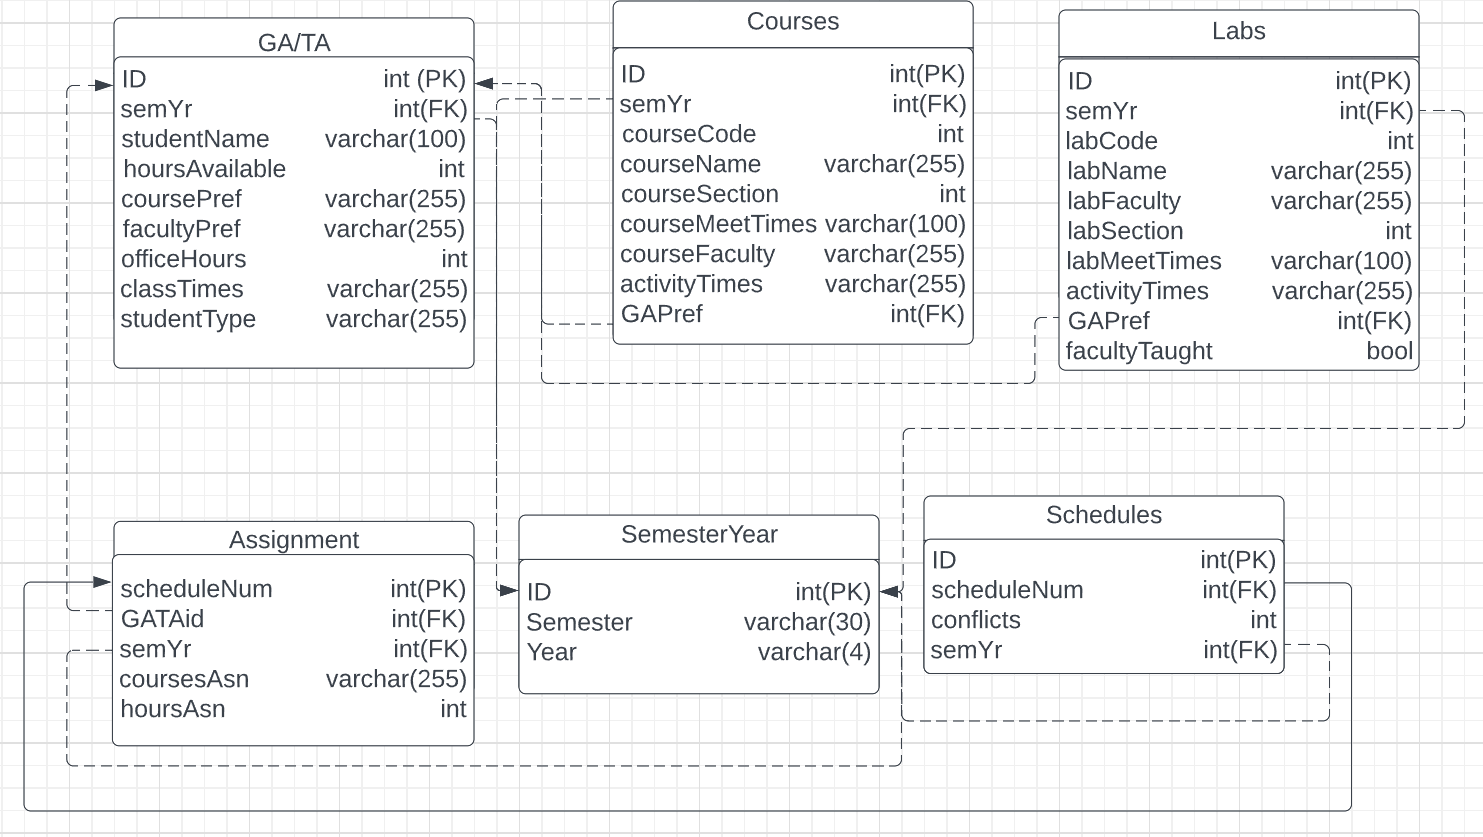
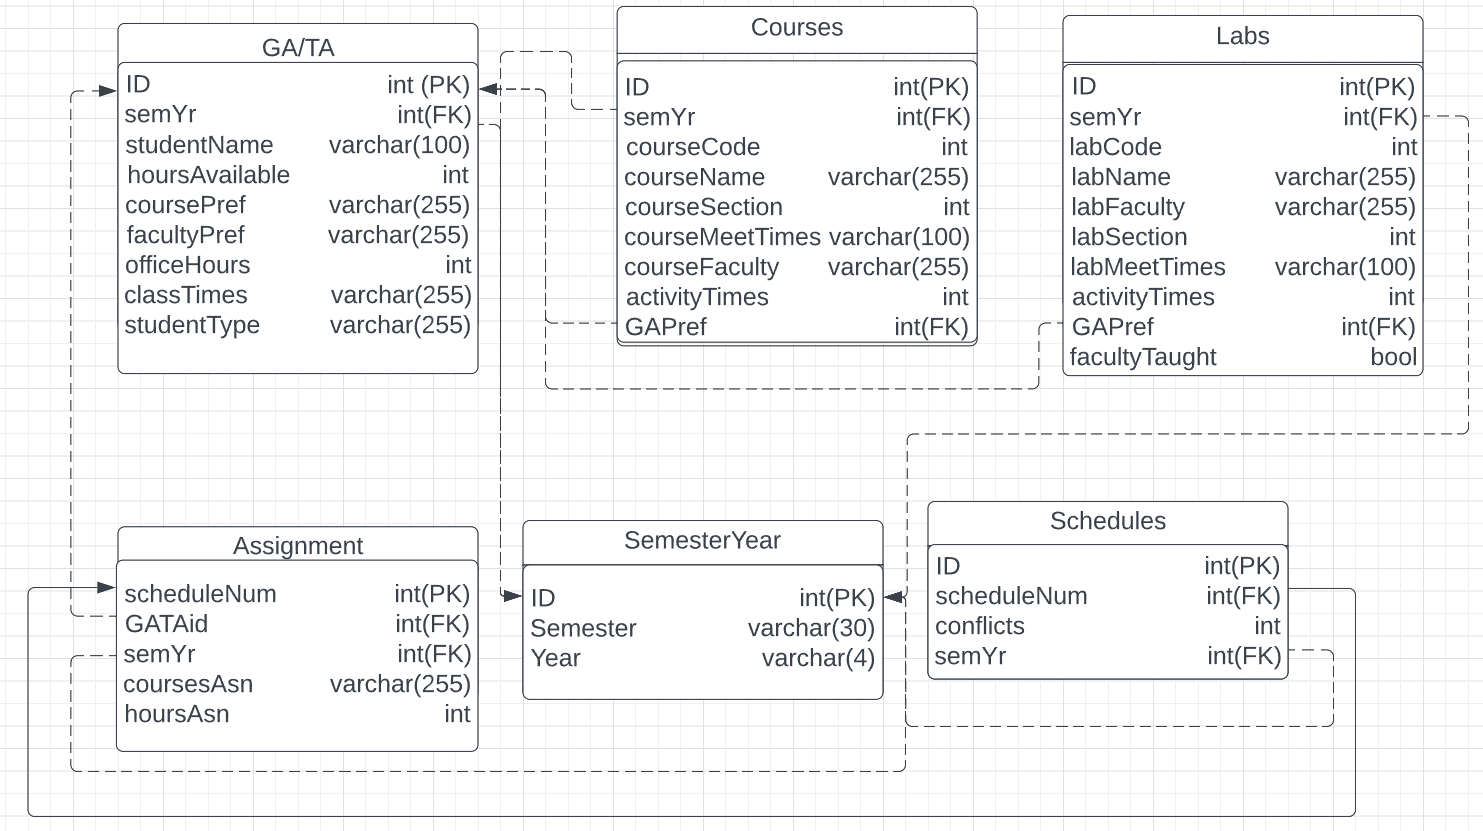
New Database Schema, added notes for Genetic Algorithm tasks, fixed double import in Student.js. Also Deleted .env file. This file should not be pushed to github, make sure to recreate for local environment testing.

diff --git a/client/src/pages/Student.js b/client/src/pages/Student.js
@@ -1,6 +1,5 @@
 import React, { Component } from 'react';
 import {getAllSemester} from "../services/semesterService";
-import { addStudent } from "../services/studentService";
 import Dropdown from 'react-dropdown';
 import 'react-dropdown/style.css';
 import {addStudent, getAllStudent} from "../services/studentService";
@@ -152,7 +151,6 @@ class Student extends Component {
                       type={"number"}
                       className="form-control"
                       placeholder="E.g 10"
-                      name={"hoursAvail"}
                       value={this.state.student.hoursAvail}
                       onChange={this.changeHandler}
                   />
@@ -165,7 +163,6 @@ class Student extends Component {
                       type={"text"}
                       className="form-control"
                       placeholder=""
-                      name={"coursePref"}
                       value={this.state.student.coursePref}
                       onChange={this.changeHandler}
                   />
@@ -178,7 +175,6 @@ class Student extends Component {
                       type={"text"}
                       className="form-control"
                       placeholder=""
-                      name={"facultyPref"}
                       value={this.state.student.facultyPref}
                       onChange={this.changeHandler}
                   />

diff --git a/GeneticAlgorithm.py b/GeneticAlgorithm.py
@@ -149,7 +149,7 @@ class Schedule:
         if self._isFitnessChanged == True:
             # Recalculate fitness for each schedule
             self._fitness = self.calculate_fitness()
-            print("Number of conflicts for current schedule:",self._fitness)
+            # print("Number of conflicts for current schedule:",self._fitness)
             self._isFitnessChanged = False
         return self._fitness
 
@@ -216,8 +216,18 @@ class Schedule:
 
         # Iterate through all courses
         for cur_lab in labs:
-            # TODO: If this lab requires a TA, run the algorithm in the list of TA to assign a teaching TA
-            #  then assign an assisting GA in the entire GATA list
+            # TODO: If applicable, assign TA to Faculty taught lab and TA taught lab so TA knows how to teach the lab.
+            # TODO: Always assign GA to Lab to assist TA.
+            # TODO: Make sure GA is not being assigned to 2 labs simultaneously. We need to take into account Meeting Times when making assignments.
+            # TODO: Think about case where Faculty wants GA present for the course meeting time. Professor will make a lab for this class and GA assigned to that class will need to be assigned to that specific lab.
+            # TODO: For TA assignment, assign additional hours for Preparation.
+            # TODO: Think about scenario where we have multiple classes to assign but not enough hours on a single GA/TA. Possibly split up activities into 2 parts to assign 2 GAs. This will help the Professor greatly.
+            # TODO: If assigning GA to more than 3 courses, should penalize.
+            # TODO: If course or lab has 8 hours, we prefer to have a single GA for course or GA and TA for lab, if not enough hours remaining Can split between 2 GAs but assignment should be penalized, 3 way split should be heavily penalized.
+            # TODO: [Not Necessary, Would be nice] Possibly think about an hour break for lunch in middle of day.
+            # If (!facultyTaught):
+            #   Assign a TA.
+            # 
 
             # Assign a random gata
             random_gata = gatas[rnd.randrange(0, len(gatas))]
@@ -282,7 +292,7 @@ class Schedule:
 
             # TODO: Calculate the rewards score for each assignments for rank of final results.
 
-        return self._numbOfConflicts
+        return 1 / ((1.0*self._numbOfConflicts + 1))
 
 
 class Population:
@@ -485,13 +495,9 @@ class CourseAssignment:
 # TODO: Tobi
 class Data:
     Courses = [["Fall 2022", "CSC 799", "Thesis", "001", "M 11:00 - 12:00", "DR RAZIB IQBAL", 4, "Caleb B.", ],
-               ["Fall 2022", "CSC 790", "Graduate Topics in Computer Science", "001", "TW 11:00 - 12:00",
-                "DR AJAY KATANGUR", 2, ''],
-               ["Fall 2022", "CSC 765", "Ubiquitous Computing and Internet of Things", "001", "F 1:00 - 2:30",
-                "DR MUKULIKA GHOSH", 3, ''],
-               ["Fall 2022", "CSC 755", "Software Testing and Quality Assurance", "001", "M 1:00 - 3:00",
-                "DR LLOYD SMITH", 4,
-                "Calvin A"],
+               ["Fall 2022", "CSC 790", "Graduate Topics in Computer Science", "001", "TW 11:00 - 12:00","DR AJAY KATANGUR", 2, ''],
+               ["Fall 2022", "CSC 765", "Ubiquitous Computing and Internet of Things", "001", "F 1:00 - 2:30","DR MUKULIKA GHOSH", 3, ''],
+               ["Fall 2022", "CSC 755", "Software Testing and Quality Assurance", "001", "M 1:00 - 3:00","DR LLOYD SMITH", 4,"Calvin A"],
                ["Fall 2022", "CSC 750", "Advanced Topics in Software Engineering", "001", "M 5:00 - 7:30",
                 "DR RAZIB IQBAL", 1,
                 "Caleb B."],
@@ -526,10 +532,9 @@ class Data:
     #            ["Fall 2022", "CSC 736", "Machine Learning", "001", "M 11:00 - 12:00", "DR AJAY KATANGUR", 4, '']]
 
     GATA = [
-        ["Fall 2022", "CALVIN A.", 20, "DR RAZIB IQBAL", "CSC 750", "WR 9:00 - 10:00",
-         "MT 15:30 - 17:30;M 11:00 - 12:00", 'GA'],
-        ["Fall 2022", "CALEB B.", 20, "DR ALAA SHETA", "CSC 742", "MF 9:00 - 10:00", "TR 13:30 - 14:45;M 11:00 - 12:00",
-         'TA'],
+        # Office hours needs to be taken into consideration. If a GA has 2 office hours, that means 18 hours are available for courses.
+        ["Fall 2022", "CALVIN A.", 20, "DR RAZIB IQBAL", "CSC 750", "WR 9:00 - 10:00","MT 15:30 - 17:30;M 11:00 - 12:00", 'GA'],
+        ["Fall 2022", "CALEB B.", 20, "DR ALAA SHETA", "CSC 742", "MF 9:00 - 10:00", "TR 13:30 - 14:45;M 11:00 - 12:00",'TA'],
         ["Fall 2022", "WENYU Z.", 10, "DR MUKULIKA GHOSH", "CSC 737", "R 9:00 - 10:00", "T 8:00 - 10:00", 'GA'],
         ["Fall 2022", "GODWIN E.", 10, "DR AJAY KATANGUR", "CSC 736", "T 9:00 - 10:00", "F 9:00 - 11:00", 'GA'],
         ["Fall 2022", "OLUWATOBI A.", 20, "DR LLOYD SMITH", "CSC 745", "M 9:00 - 10:00", "W 9:00 - 10:15", 'GA'],
